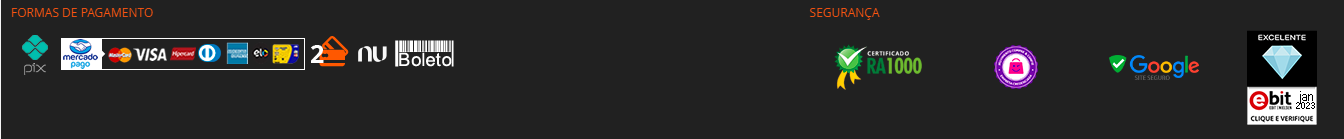
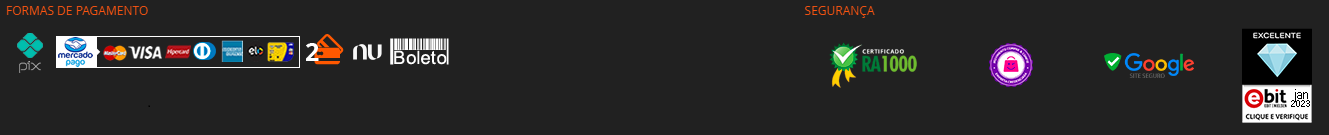
Ajustes Responsividade e pagina home e categorias

diff --git a/public/stylesheets/header.css b/public/stylesheets/header.css
@@ -1,132 +1,85 @@
-    /* Geral */
-
-* {
-    margin: 0;
-    padding: 0;
-    box-sizing: border-box;
-    font-family: Helvetica, sans-serif;
-    border: none;
+*{
+  padding: 0;
+  margin: 0;
+  font-family: monospace;
+  box-sizing: border-box;
 }
 
-.search-box {
-    background: #fff;
-    padding: 10px;
-    border-radius: 40px;
-    display: flex;
-    justify-content: space-between;
-    align-items: center;
-    height: 50px;
+.header {
+  background-color: #FFF159;
+  display: grid;
+  grid-template-columns: repeat(3, 1fr);
+  padding: 0px 25px;
+  height: 80px;
+  align-items: center;
 }
 
-.search-text {
-    background: none;
-    outline: 0;
-    transition: 0.4s;
-    font-size: 16px;
-    width: 100%;
-    max-width: 320px;
-    padding-left: 20px;
-}
-
-.search-btn {
-    width: 50px;
-    height: 50px;
-    border-radius: 50%;
-    display: flex;
-    justify-content: center;
-    align-items: center;
-    cursor: pointer;
-}
-
-::-webkit-input-placeholder {
-    font-size: 17px;
-    font-family: system-ui, -apple-system, BlinkMacSystemFont, 'Segoe UI', Roboto, Oxygen, Ubuntu, Cantarell, 'Open Sans', 'Helvetica Neue', sans-serif;
-    color: #aeaeae;
-}
-
-.search-box:hover {
-    padding-right: 0;
-}
-
-.loupe-white {
-    display: none;
-}
-
-.search-box:hover>.search-btn {
-    background: #447ce7;
-}
-
-.search-box:hover>.search-btn .loupe-blue {
-    display: none;
-}
-
-.search-box:hover>.search-btn .loupe-white {
-    display: block;
-}
-
-#cabeçalho {
-    background: #FFF159;
-}
-
-#cabeçalho>div {
-    display: flex;
-    justify-content: space-between;
-    align-items: center;
-    padding: 10px 20px;
-}
-
-.nav-link {
-    width: 100%;
-    overflow: hidden;
-    background-color: #ff6500;
-    outline: none;
-    cursor: pointer;
-    transition: 0.3s;
-    font-size: 17px;
-    background-color: #ff8d42;
-    display: flex;
-    justify-content: center;
-    padding: 6px 15px;
-    list-style: none;
-}
-
-.nav-link a {
-    color: #111;
-    font-weight: 700;
-    transition: 0.3s;
-    padding: 30px;
-    text-decoration: none;
-}
-
-.nav-link a:hover {
-    color: #ffffff;
+.logo img{
+  height: 80px;
 }
 
 
-/* Regras de mídia para tornar o layout responsivo */
+.search input{
+  height: 35px;
+  width: 100%;
+  border: none;
+  outline: none;
+  border-radius: 10px;
+  padding: 10px;
+  font-size: 16px;
+}
 
-@media only screen and (max-width: 768px) {
-    /* Ajusta o tamanho máximo do input de busca */
-    .search-text {
-        max-width: 250px;
-    }
-    /* Altera o layout da navbar para uma lista vertical */
-    .nav-link {
-        flex-direction: column;
-        position: absolute;
-        top: 50px;
-        left: 0;
-        width: 100%;
-        background-color: #ff8d42;
-        padding: 0;
-        display: none;
-    }
-    .nav-link.show {
-        display: flex;
-    }
-    .nav-link a {
-        padding: 10px;
-        border-bottom: 1px solid #fff;
-    }
-    /* Adiciona um botão para exibir a navbar em telas pequenas */
- }
+.icons{
+  text-align: right;
+}
+
+.icons .fa{
+  color: #000;
+  text-decoration: none;
+  font-size: 22px;
+  padding: 0px 10px;
+  transition: 0.5s;
+}
+
+.fa:hover{
+  color: #FFAD01;
+}
+
+.links{
+  background-color: #FFF159;
+  display: none;
+}
+
+.links a{
+  color: #000000;
+  text-decoration: none;
+  display: block;
+  padding: 15px;
+  font-size: 18px;
+}
+
+.showmylinks{
+  display: block;
+}
+
+@media only screen and (max-width:600px){
+  .header{
+      grid-template-columns: auto;
+      height: 120px;
+      padding: 15px 5px;
+  }
+  .logo img{
+      width: 110px;
+      height: auto;
+  }
+
+  .search{
+      grid-column: 2;
+      grid-row: 2;
+      grid-column: 1/span 2;
+      margin-bottom: px;
+  }
+  .icons .fa{
+      padding: 5px;
+  }
+}

diff --git a/public/stylesheets/footer.css b/public/stylesheets/footer.css
@@ -49,7 +49,7 @@ footer#rodapes {
 #rodapes .boxs {
     justify-content: center;
     width: 320px;
-    padding: 20px;
+    padding: 10px;
 }
 
 #rodapes .boxs :nth-child(4) {
@@ -118,14 +118,14 @@ footer#rodapes {
 }
 
 @media only screen and (max-width: 950px) {
-    footer#rodapes {
+    #rodapes {
         flex-direction: column;
     }
-    #rodapes .boxs {
+    .boxs {
         width: 100%;
         text-align: center;
     }
-    #rodapes .boxs :nth-child(4) {
+    .boxs :nth-child(4) {
         width: 100%;
     }
     .ilustra {
@@ -133,4 +133,7 @@ footer#rodapes {
         width: 100%;
         text-align: center;
     }
+    .boxs-conts {
+      width: 100%;
+  }
 }

diff --git a/routes/categoriasRoutes.js b/routes/categoriasRoutes.js
@@ -3,11 +3,11 @@ const router = express.Router();
 const categoriasController = require('../controllers/categoriasController');
 
 router.post('/', categoriasController.create);
-router.get('/', categoriasController.findAll);
+// router.get('/', categoriasController.findAll);
 router.get('/:id', categoriasController.findOne);
 router.put('/:id', categoriasController.update);
 router.delete('/:id', categoriasController.delete);
-router.get('/cliente/:id', categoriasController.categorias);
+router.get('/', categoriasController.categorias);
 
 
 module.exports = router;

diff --git a/public/stylesheets/detalhesProduto.css b/public/stylesheets/detalhesProduto.css
@@ -101,6 +101,7 @@ a:hover {
     }
 }
 
+
 .product-image {
     width: 60%;
     object-fit: cover;
